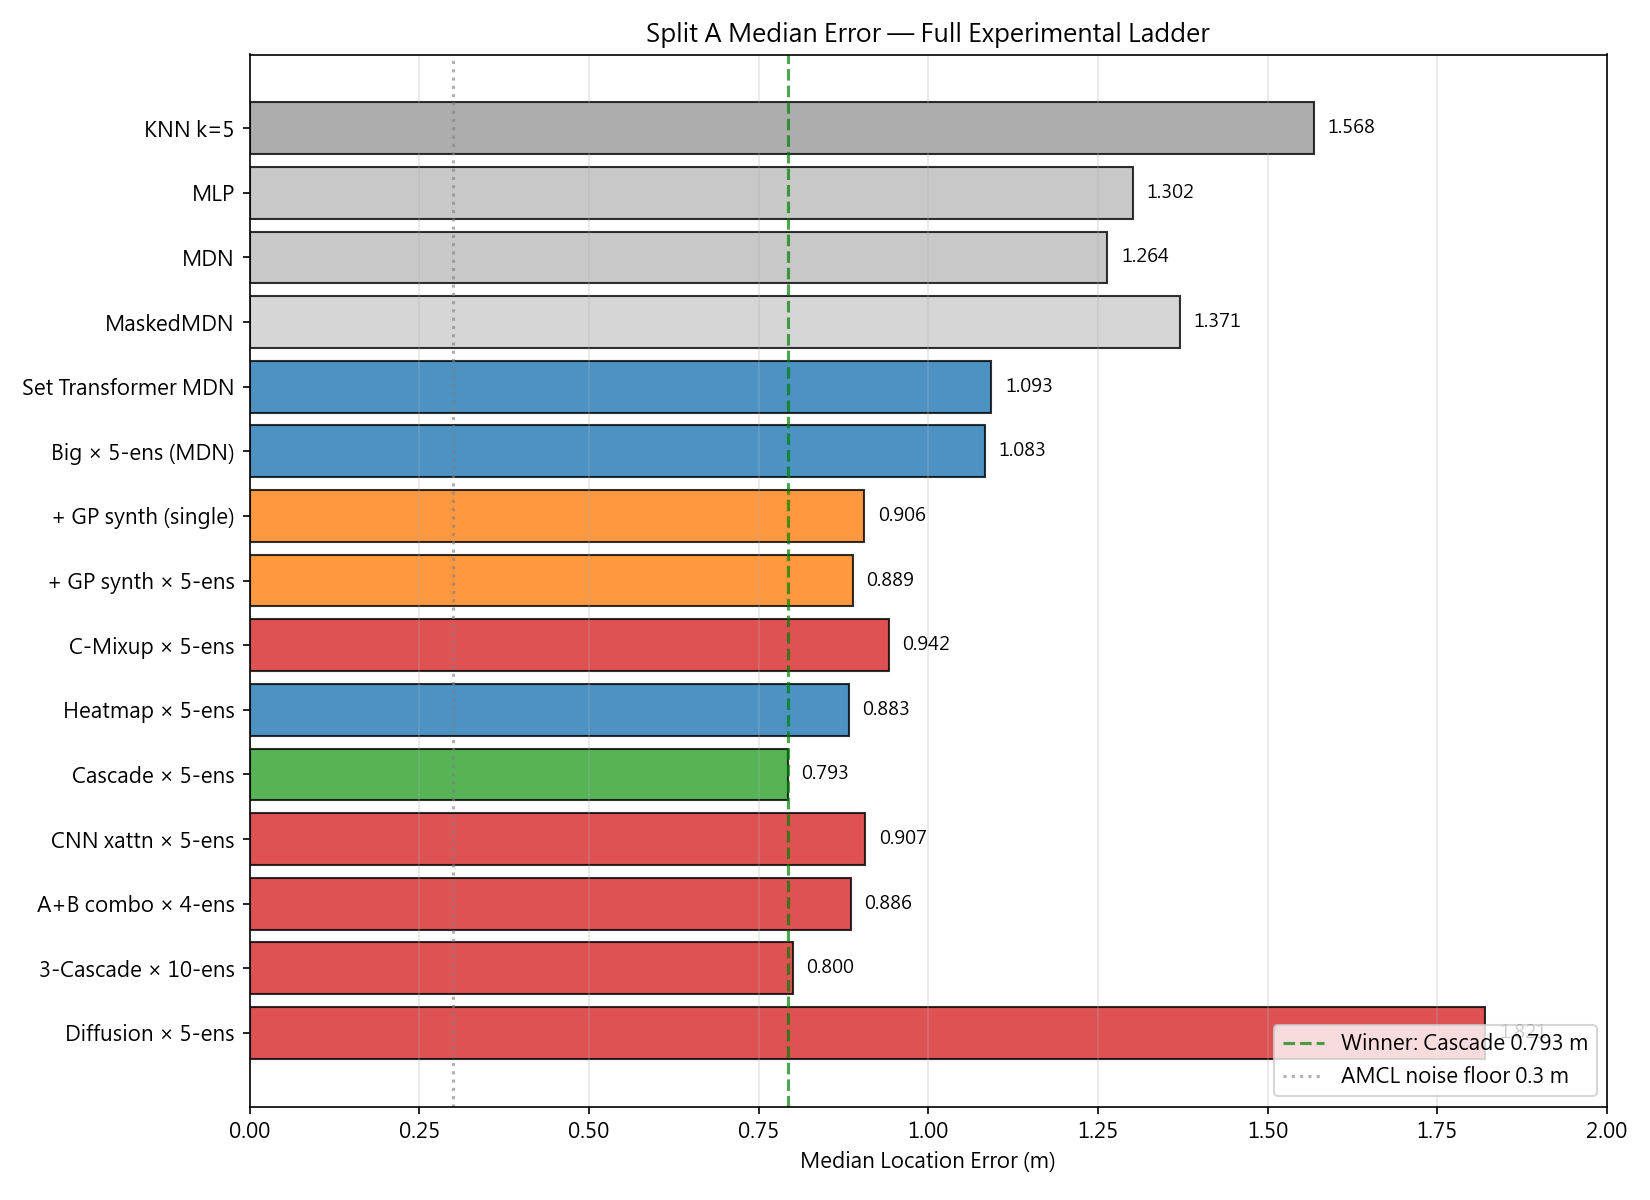
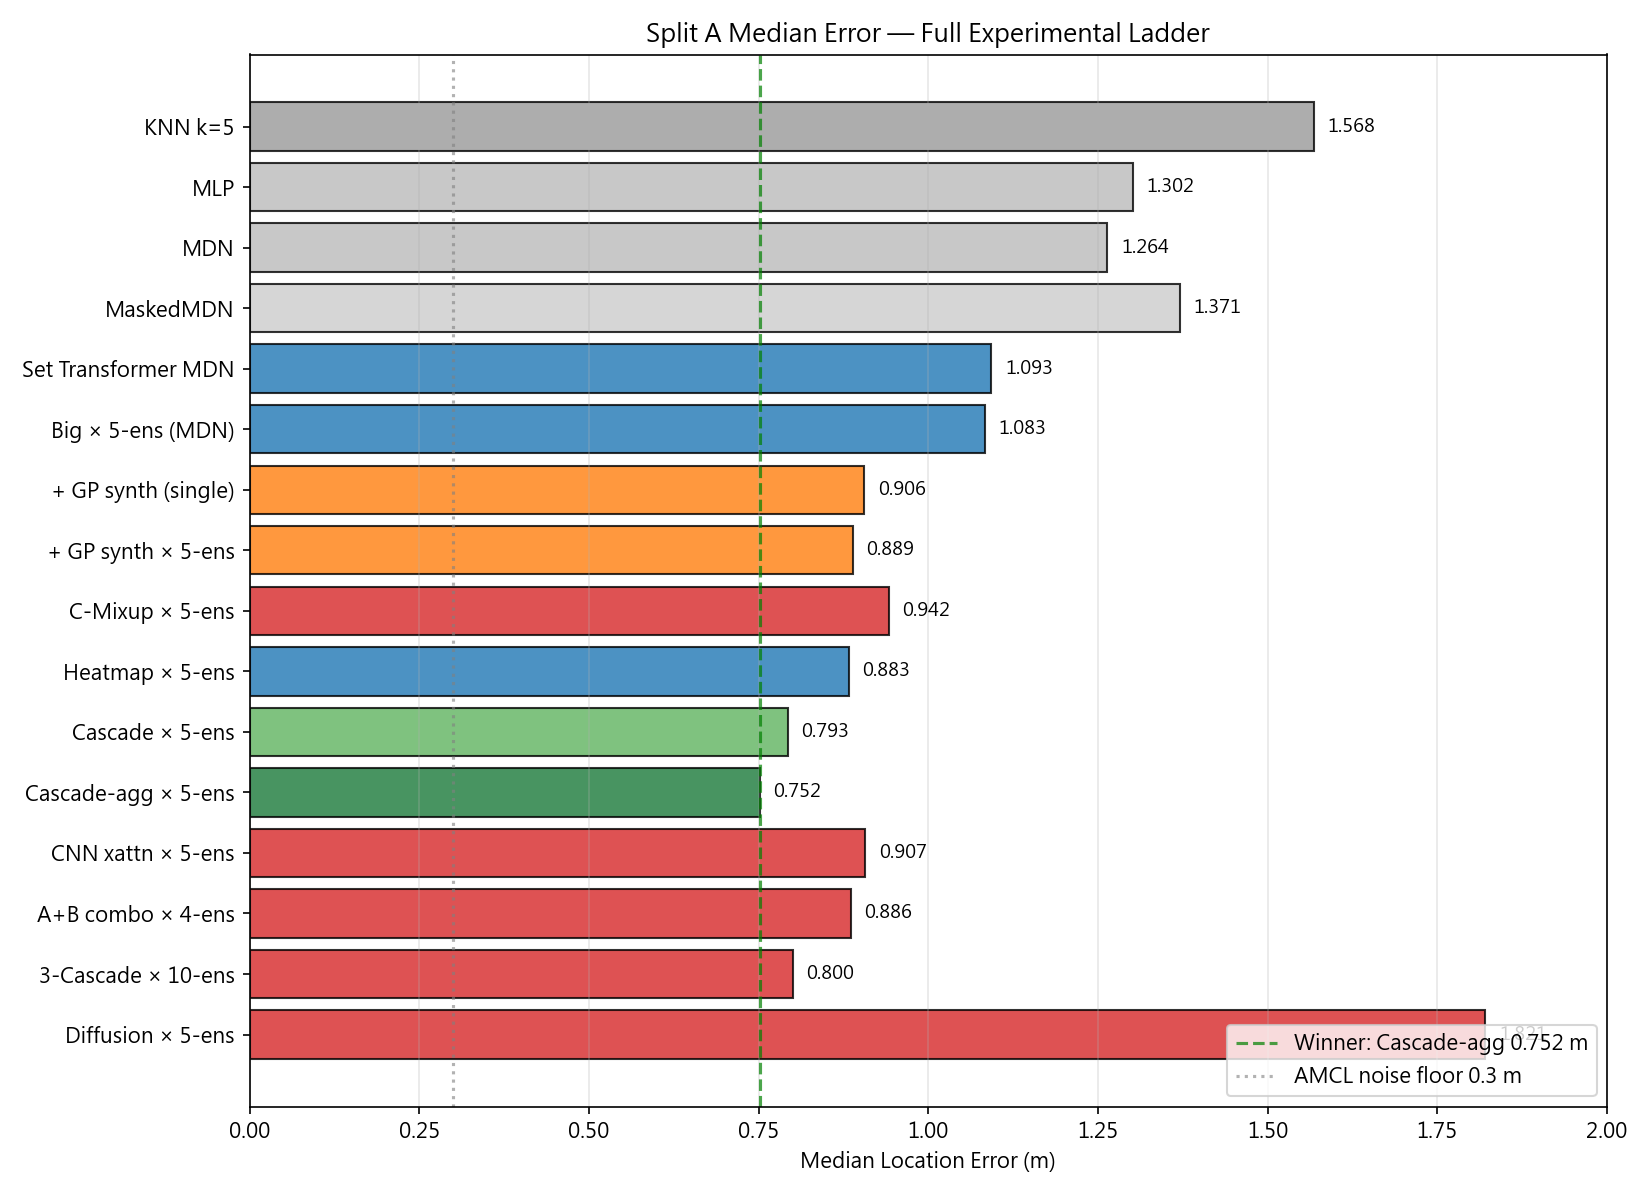
Ladder: add Cascade-aggressive 0.752 (the reported headline)
The ladder topped out at Cascade 0.793 and omitted the loss-weight-tuned
Cascade-aggressive 0.752 that is the actual reported headline. Added it as the
winner (dark green), moved the winner line to 0.752, and demoted plain Cascade
0.793 to a lighter milestone green. Regenerated ladder_bar.png.

diff --git a/lab3/make_report_figures.py b/lab3/make_report_figures.py
@@ -317,7 +317,8 @@ def fig_ladder_bar():
         ('+ GP synth × 5-ens',   0.889, 'breakthrough', '#ff7f0e'),
         ('C-Mixup × 5-ens',      0.942, 'failed',    '#d62728'),
         ('Heatmap × 5-ens',      0.883, 'climbing',  '#1f77b4'),
-        ('Cascade × 5-ens',      0.793, 'winner',    '#2ca02c'),
+        ('Cascade × 5-ens',      0.793, 'climbing',  '#5fb35f'),
+        ('Cascade-agg × 5-ens',  0.752, 'winner',    '#1a7a3a'),
         ('CNN xattn × 5-ens',    0.907, 'failed',    '#d62728'),
         ('A+B combo × 4-ens',    0.886, 'failed',    '#d62728'),
         ('3-Cascade × 10-ens',   0.800, 'failed',    '#d62728'),
@@ -336,8 +337,8 @@ def fig_ladder_bar():
     ax.set_yticks(y_pos)
     ax.set_yticklabels(labels)
     ax.invert_yaxis()
-    ax.axvline(0.793, color='green', linestyle='--', alpha=0.7,
-               label='Winner: Cascade 0.793 m')
+    ax.axvline(0.752, color='green', linestyle='--', alpha=0.7,
+               label='Winner: Cascade-agg 0.752 m')
     ax.axvline(0.3, color='gray', linestyle=':', alpha=0.6,
                label='AMCL noise floor 0.3 m')
     ax.set_xlabel('Median Location Error (m)')